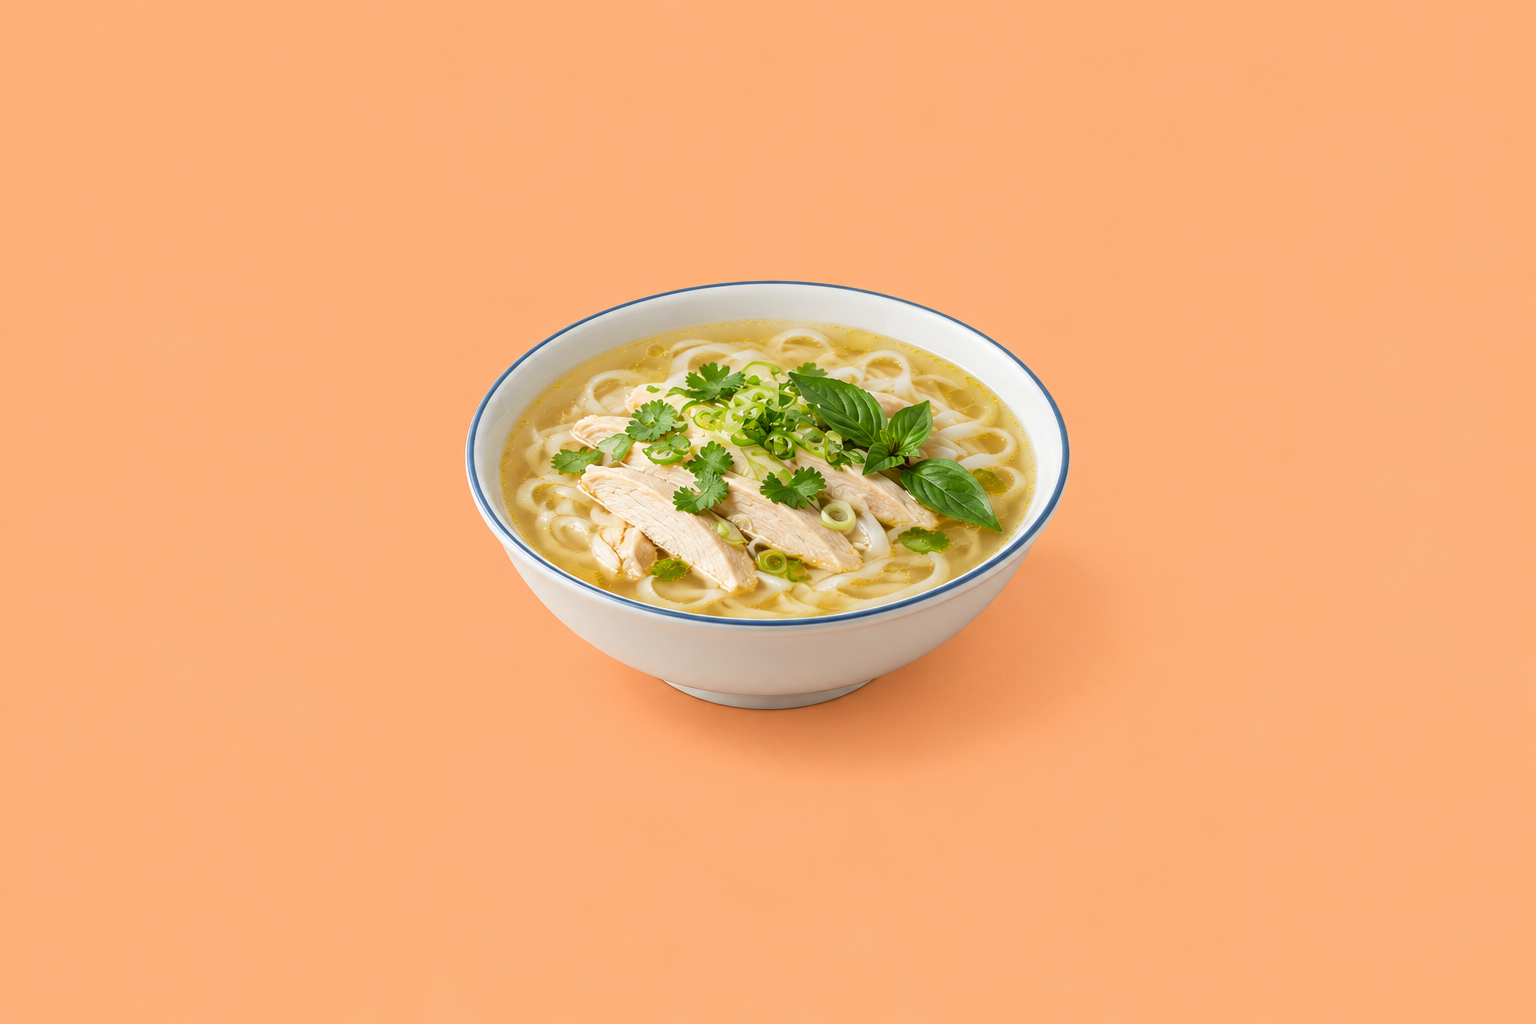
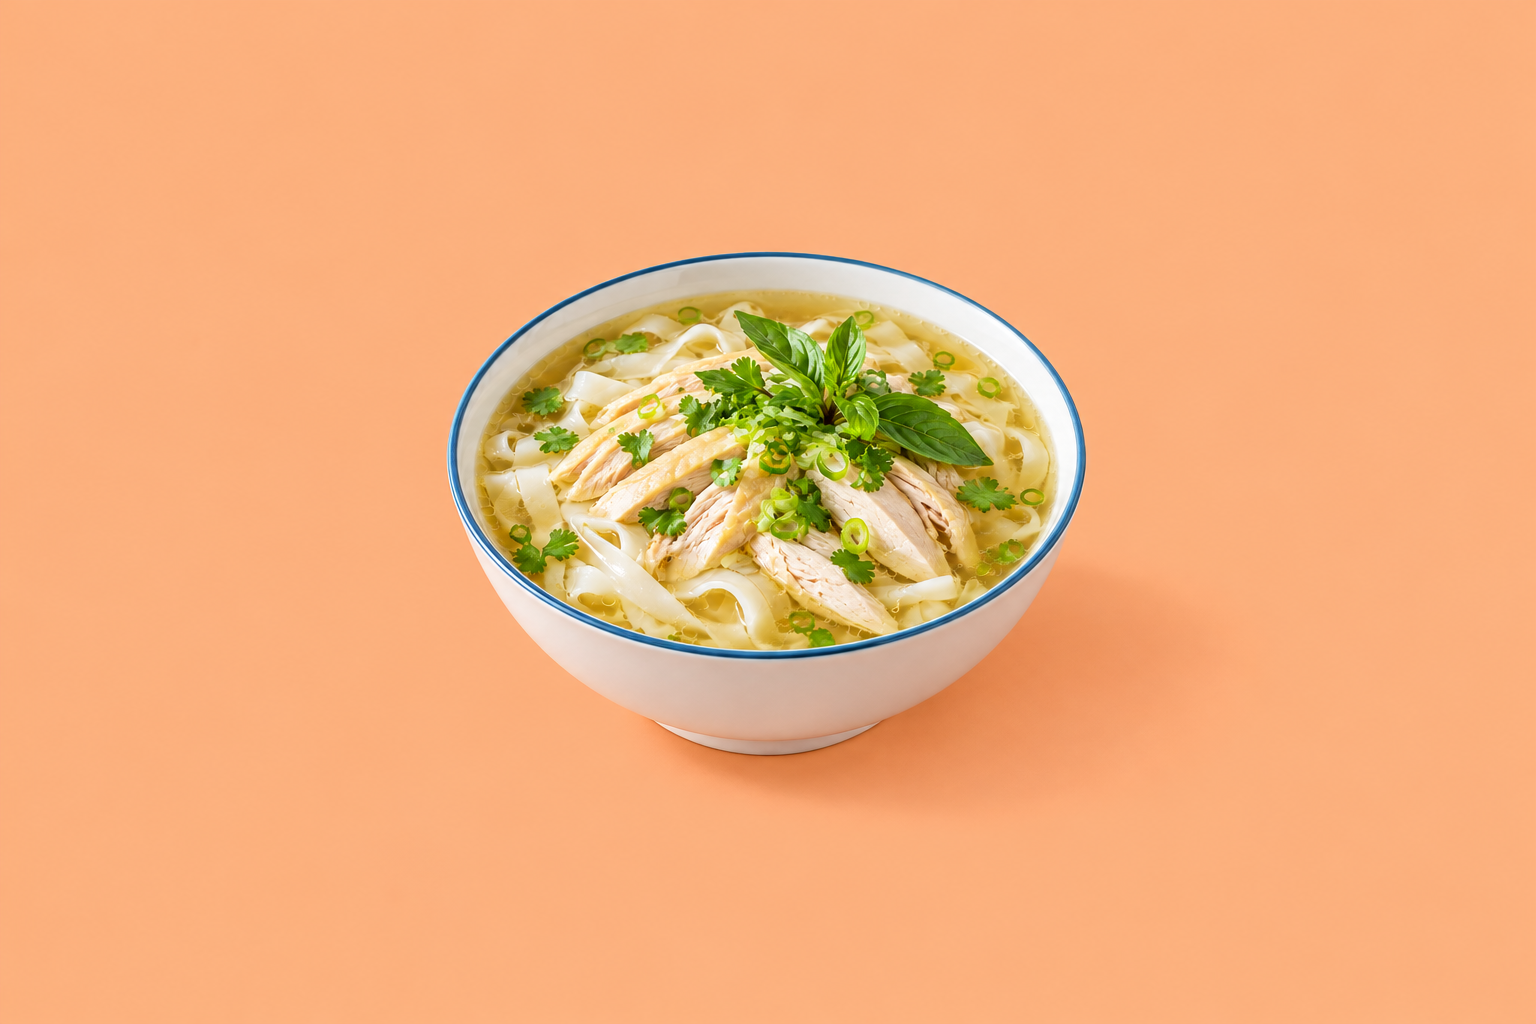
docs: replace pho and banana bread pilot images

Changed region(s): [[0.2812, 0.2188, 0.7188, 0.7812]]

diff --git a/docs/image-tests/batch-01/redos/2026-10-31/README.md b/docs/image-tests/batch-01/redos/2026-10-31/README.md
@@ -1,0 +1,15 @@
+# Batch 01: pho and banana bread replacements
+
+Requested 31 October 2026; reviewed 1 November 2026 UTC (31 October local).
+
+Only two original images are replaced, retaining their recipe filenames. The other 18 originals are unchanged. Full-batch contact sheets and current QA hashes are refreshed; original prompt records remain historical. The prior images and records remain in parent commit `4abe7d706464abba0b884d0549dbb7a27196ed59`.
+
+- Pho: clear golden broth and visibly broad, thin flat rice-noodle ribbons.
+- Banana bread: one upright slice with its cut face toward the camera, in front of the loaf on a rectangular plate.
+- Both: 1536 × 1024; complete vessels retained inside the middle-half crop (x384–1152); no props or steam observed.
+
+Four image-generation calls: two initial generations and two framing corrections. The cookbook margarita reference was attached throughout. Rejected oversized versions are excluded. No image pixels were altered by post-processing; crops and resized sheets are review previews only. Backdrop color is approximate, not a pixel-exact hex guarantee. This is image review, not cooked-recipe or hosted-site QA.
+
+[Side-by-side full and middle-half proof](redo-proof.png) · [Exact source prompts](exact-prompts.json) · [Generation and correction prompts](generation-log.json) · [Replacement hashes](qa.json)
+
+Saved to a new review branch only. No merge, deployment or recipe image mapping.

diff --git a/docs/image-tests/batch-01/README.md b/docs/image-tests/batch-01/README.md
@@ -2,6 +2,10 @@
 
 20 original PNGs, each **1536 × 1024**. Review assets only; no site files, mappings, configuration or deployment changed.
 
+## Two-image revision
+
+Pho and banana bread were replaced after the initial batch review. [Revision details, exact prompts and proof](redos/2026-10-31/README.md). Contact sheets and current hashes below include the replacements; the other 18 originals are unchanged. The original supplied prompts remain historical, with replacement prompts in the linked revision folder.
+
 ## Review
 
 - [Full-frame contact sheet](review/full-contact-sheet.png)
